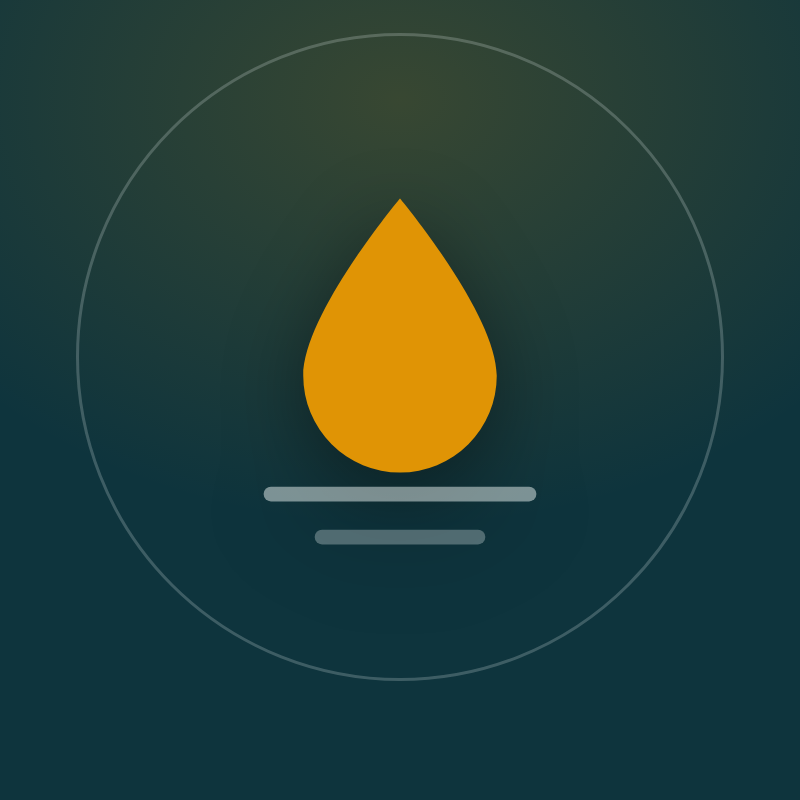
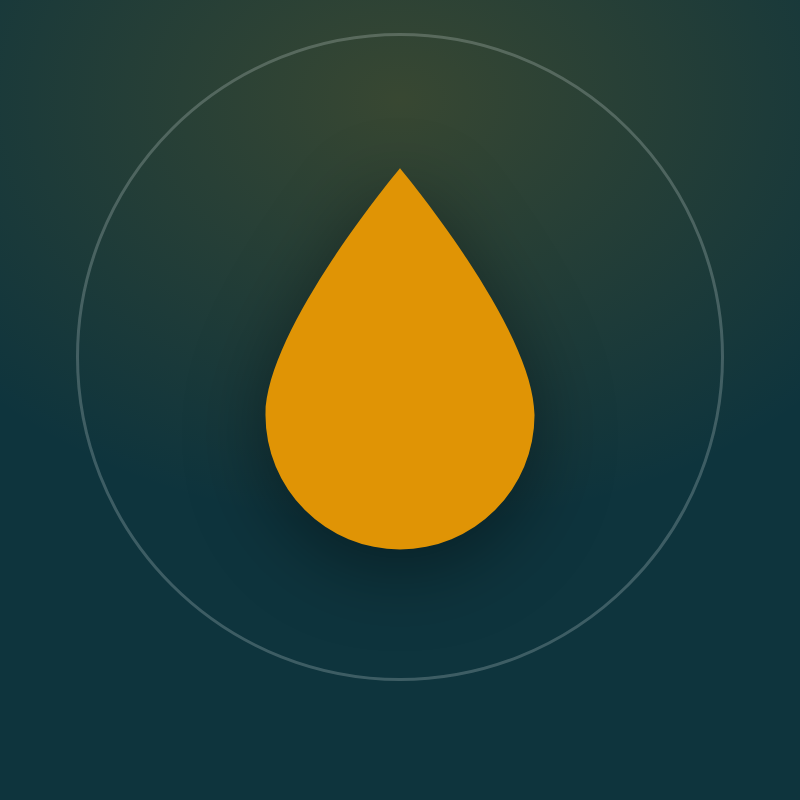
Give the drop the room the bird had
The owner liked the lockup — drop above the name, rule, region — but in
the first drop version the mark came out small beside 96px Playfair, and
the two water lines under it read as a stand rather than water.

So the drop is drawn large, its viewBox cropped to the shape itself, and
the water lines dropped: beside a wordmark they were noise. The stack is
nudged down 18px because Playfair's ascent is deeper than its descent,
which leaves an optically centered block looking raised.

Claude-Session: https://claude.ai/code/session_013Aj7dZNthWaoPhEbuqShCn

Changed region(s): [[0.3125, 0.2188, 0.6875, 0.6875]]

diff --git a/tools/avatar-podpis.html b/tools/avatar-podpis.html
@@ -7,20 +7,19 @@ html,body{width:100%;height:100%;overflow:hidden}
 .safe{position:fixed;inset:0;display:flex;align-items:center;justify-content:center}
 .ring{position:absolute;top:50%;left:50%;width:648px;height:648px;margin:-324px 0 0 -324px;
       border-radius:50%;border:3px solid var(--ring)}
-:root{
-  --drop:#F0A62E; --water:#F2C67C; --ring:rgba(242,198,124,.26);
-}
+:root{--drop:#F0A62E; --ring:rgba(242,198,124,.26);}
 body{background:
   radial-gradient(120% 100% at 50% 16%, rgba(224,138,43,.30) 0%, rgba(224,138,43,0) 62%),
   #2E2622}
 .drop{filter:drop-shadow(0 18px 40px rgba(0,0,0,.45))}
 
-.stack{display:grid;justify-items:center;gap:18px;text-align:center}
+.stack{display:grid;justify-items:center;text-align:center;transform:translateY(18px)}
+.drop{margin-bottom:34px}
 .name{font-family:'Playfair',Georgia,serif;font-weight:700;font-size:96px;line-height:.98;
       color:#FCF7F1;letter-spacing:-.015em}
 .name em{display:block;font-style:normal;color:#F0A62E}
+.rule{width:88px;height:2px;background:rgba(242,198,124,.45);margin:22px 0 18px}
 .tag{font-family:'Golos',sans-serif;font-weight:500;font-size:25px;letter-spacing:.22em;
      text-transform:uppercase;color:#C6B8AE}
-.rule{width:88px;height:2px;background:rgba(242,198,124,.45)}
 </style>
-<div class="safe"><div class="stack"><svg class="drop" viewBox="0 0 32 32" xmlns="http://www.w3.org/2000/svg" style="width:168px;height:168px"><path d="M16 4.2c0 0 7.2 8.6 7.2 13.2a7.2 7.2 0 1 1-14.4 0c0-4.6 7.2-13.2 7.2-13.2z" fill="var(--drop)"/><path d="M6.4 26.2h19.2" stroke="var(--water)" stroke-width="1.1" stroke-linecap="round" opacity=".5"/><path d="M10.2 29.4h11.6" stroke="var(--water)" stroke-width="1.1" stroke-linecap="round" opacity=".3"/></svg><div class="name">Строй<em>Инвест</em></div><div class="rule"></div><div class="tag">Москва и область</div></div></div>
+<div class="safe"><div class="stack"><svg class="drop" viewBox="8.4 3.6 15.2 21.4" xmlns="http://www.w3.org/2000/svg" style="width:149px;height:210px"><path d="M16 4.2c0 0 7.2 8.6 7.2 13.2a7.2 7.2 0 1 1-14.4 0c0-4.6 7.2-13.2 7.2-13.2z" fill="var(--drop)"/></svg><div class="name">Строй<em>Инвест</em></div><div class="rule"></div><div class="tag">Москва и область</div></div></div>

diff --git a/tools/avatar-kaplya.html b/tools/avatar-kaplya.html
@@ -7,12 +7,10 @@ html,body{width:100%;height:100%;overflow:hidden}
 .safe{position:fixed;inset:0;display:flex;align-items:center;justify-content:center}
 .ring{position:absolute;top:50%;left:50%;width:648px;height:648px;margin:-324px 0 0 -324px;
       border-radius:50%;border:3px solid var(--ring)}
-:root{
-  --drop:#F0A62E; --water:#F2C67C; --ring:rgba(242,198,124,.26);
-}
+:root{--drop:#F0A62E; --ring:rgba(242,198,124,.26);}
 body{background:
   radial-gradient(120% 100% at 50% 16%, rgba(224,138,43,.30) 0%, rgba(224,138,43,0) 62%),
   #2E2622}
 .drop{filter:drop-shadow(0 18px 40px rgba(0,0,0,.45))}
 </style>
-<div class="safe"><div class="ring"></div><svg class="drop" viewBox="0 0 32 32" xmlns="http://www.w3.org/2000/svg" style="width:430px;height:430px"><path d="M16 4.2c0 0 7.2 8.6 7.2 13.2a7.2 7.2 0 1 1-14.4 0c0-4.6 7.2-13.2 7.2-13.2z" fill="var(--drop)"/><path d="M6.4 26.2h19.2" stroke="var(--water)" stroke-width="1.1" stroke-linecap="round" opacity=".5"/><path d="M10.2 29.4h11.6" stroke="var(--water)" stroke-width="1.1" stroke-linecap="round" opacity=".3"/></svg></div>
+<div class="safe"><div class="ring"></div><svg class="drop" viewBox="8.4 3.6 15.2 21.4" xmlns="http://www.w3.org/2000/svg" style="width:284px;height:400px"><path d="M16 4.2c0 0 7.2 8.6 7.2 13.2a7.2 7.2 0 1 1-14.4 0c0-4.6 7.2-13.2 7.2-13.2z" fill="var(--drop)"/></svg></div>

diff --git a/tools/avatar-kaplya-sinyaya.html b/tools/avatar-kaplya-sinyaya.html
@@ -7,12 +7,10 @@ html,body{width:100%;height:100%;overflow:hidden}
 .safe{position:fixed;inset:0;display:flex;align-items:center;justify-content:center}
 .ring{position:absolute;top:50%;left:50%;width:648px;height:648px;margin:-324px 0 0 -324px;
       border-radius:50%;border:3px solid var(--ring)}
-:root{
-  --drop:#E09405; --water:#EAF2F0; --ring:rgba(234,242,240,.22);
-}
+:root{--drop:#E09405; --ring:rgba(234,242,240,.22);}
 body{background:
   radial-gradient(120% 100% at 50% 14%, rgba(224,148,5,.20) 0%, rgba(224,148,5,0) 60%),
   #0E343D}
 .drop{filter:drop-shadow(0 18px 40px rgba(0,0,0,.40))}
 </style>
-<div class="safe"><div class="ring"></div><svg class="drop" viewBox="0 0 32 32" xmlns="http://www.w3.org/2000/svg" style="width:430px;height:430px"><path d="M16 4.2c0 0 7.2 8.6 7.2 13.2a7.2 7.2 0 1 1-14.4 0c0-4.6 7.2-13.2 7.2-13.2z" fill="var(--drop)"/><path d="M6.4 26.2h19.2" stroke="var(--water)" stroke-width="1.1" stroke-linecap="round" opacity=".5"/><path d="M10.2 29.4h11.6" stroke="var(--water)" stroke-width="1.1" stroke-linecap="round" opacity=".3"/></svg></div>
+<div class="safe"><div class="ring"></div><svg class="drop" viewBox="8.4 3.6 15.2 21.4" xmlns="http://www.w3.org/2000/svg" style="width:284px;height:400px"><path d="M16 4.2c0 0 7.2 8.6 7.2 13.2a7.2 7.2 0 1 1-14.4 0c0-4.6 7.2-13.2 7.2-13.2z" fill="var(--drop)"/></svg></div>
